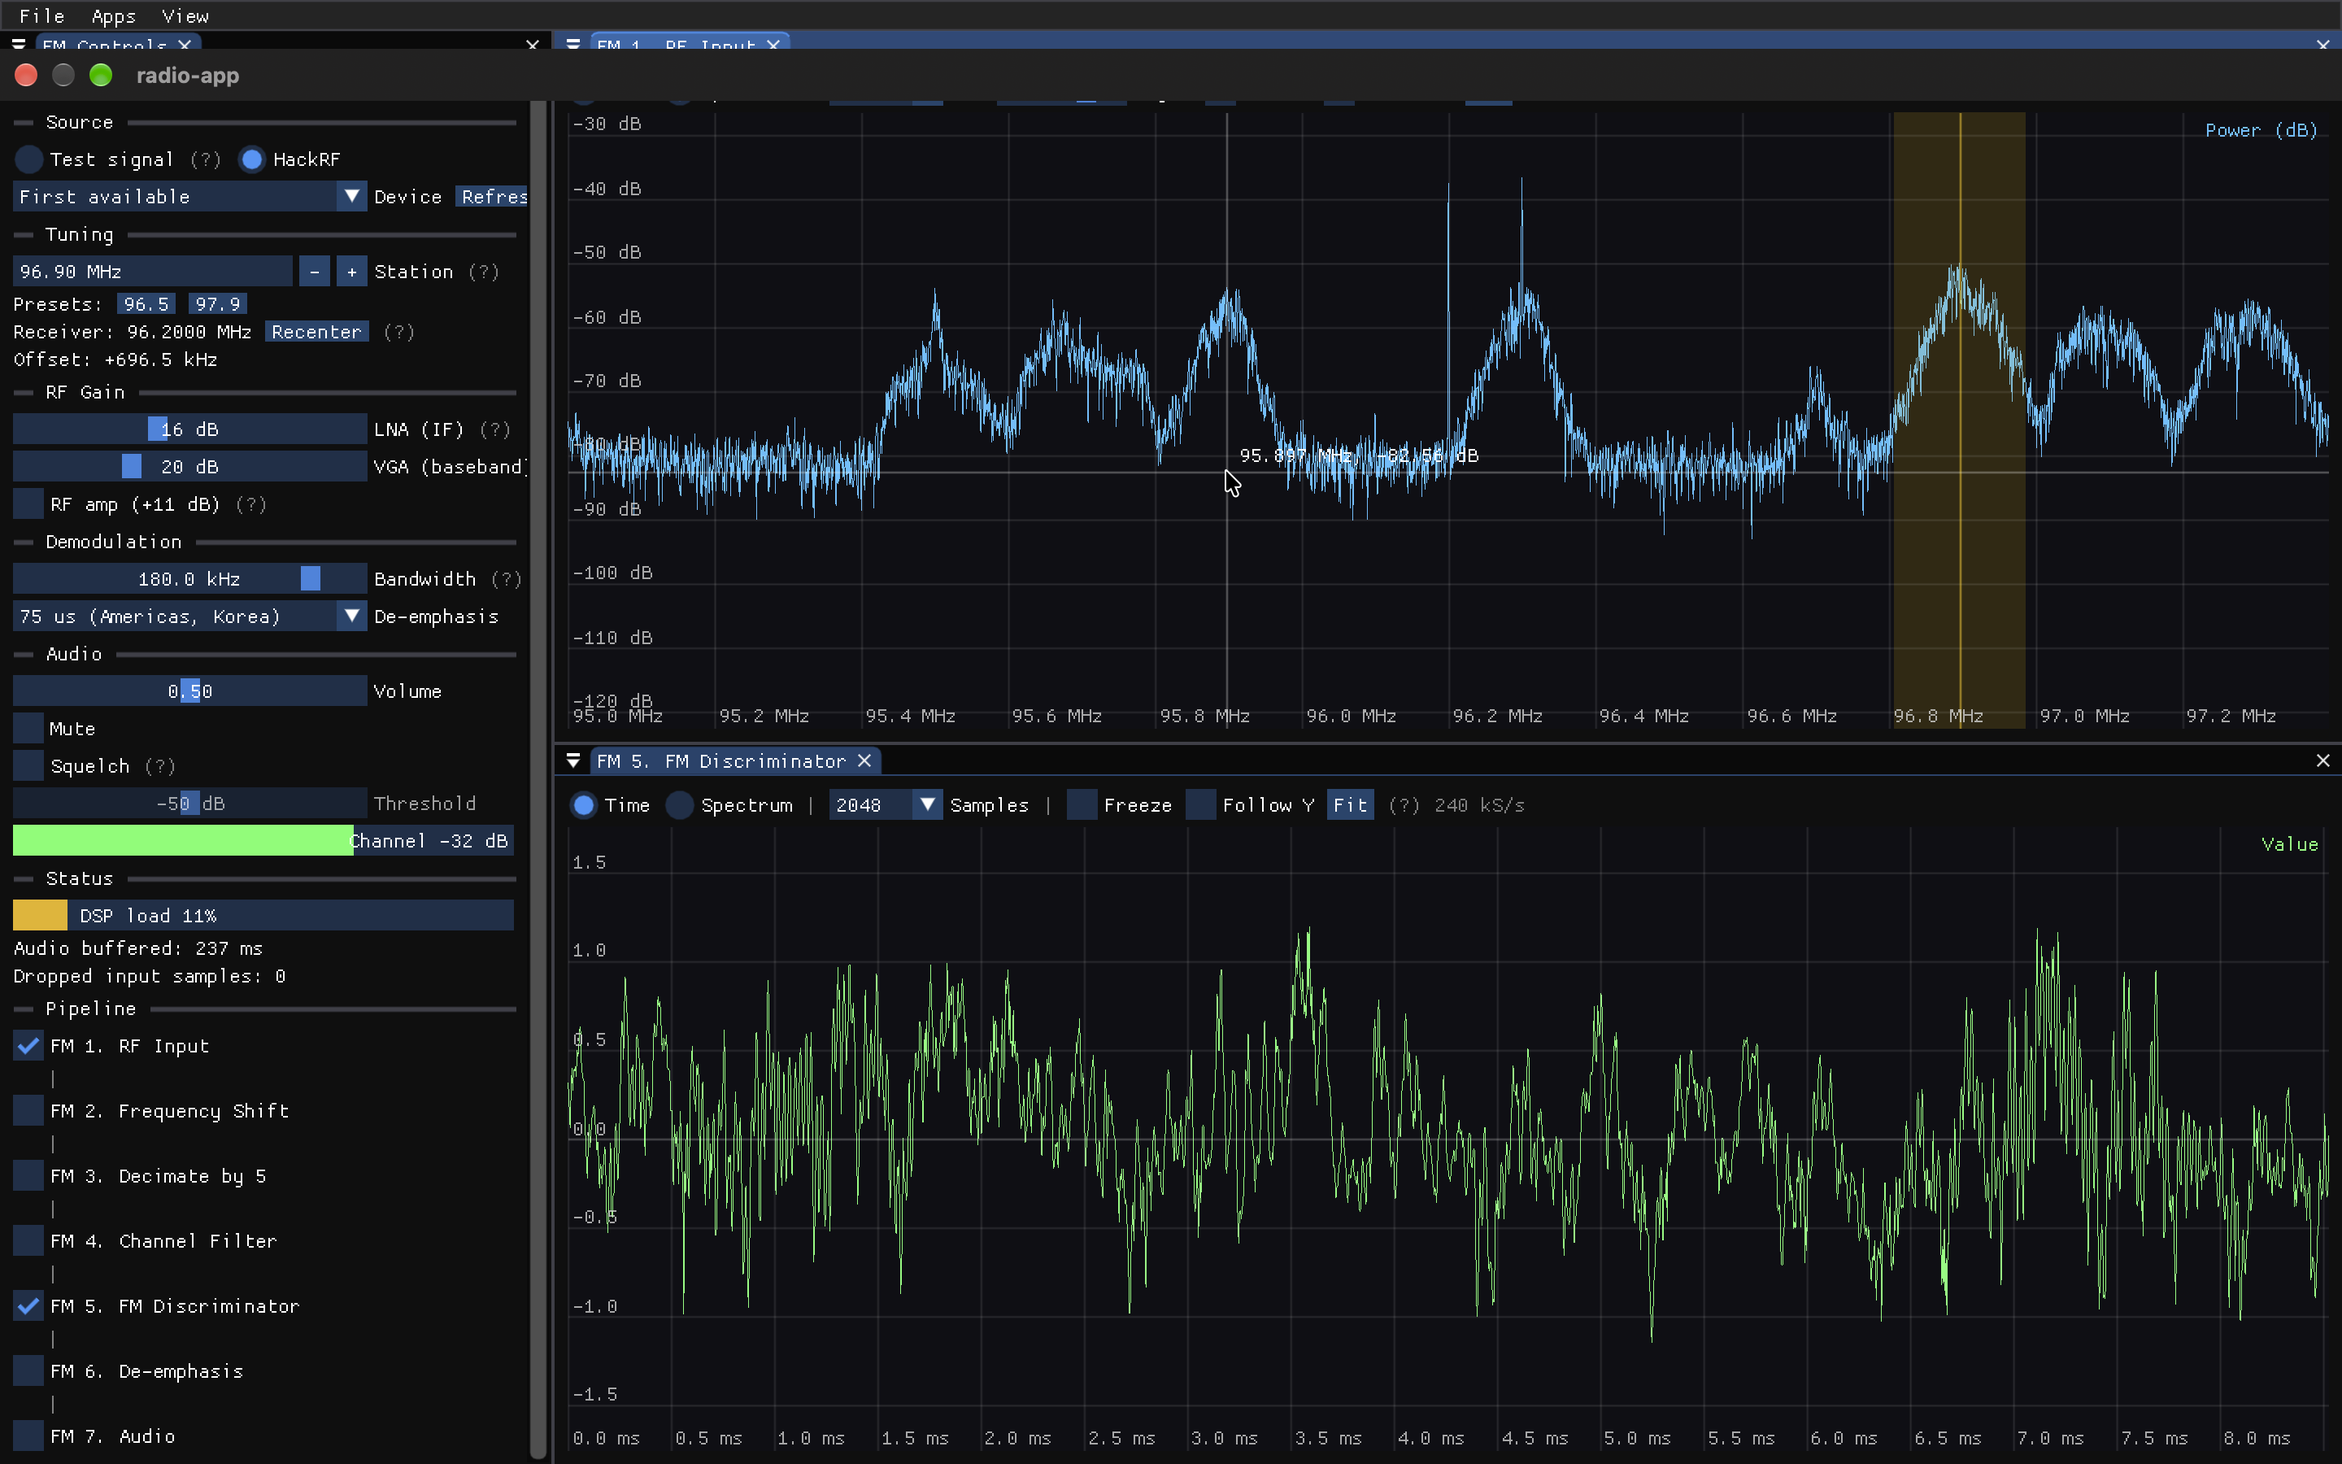
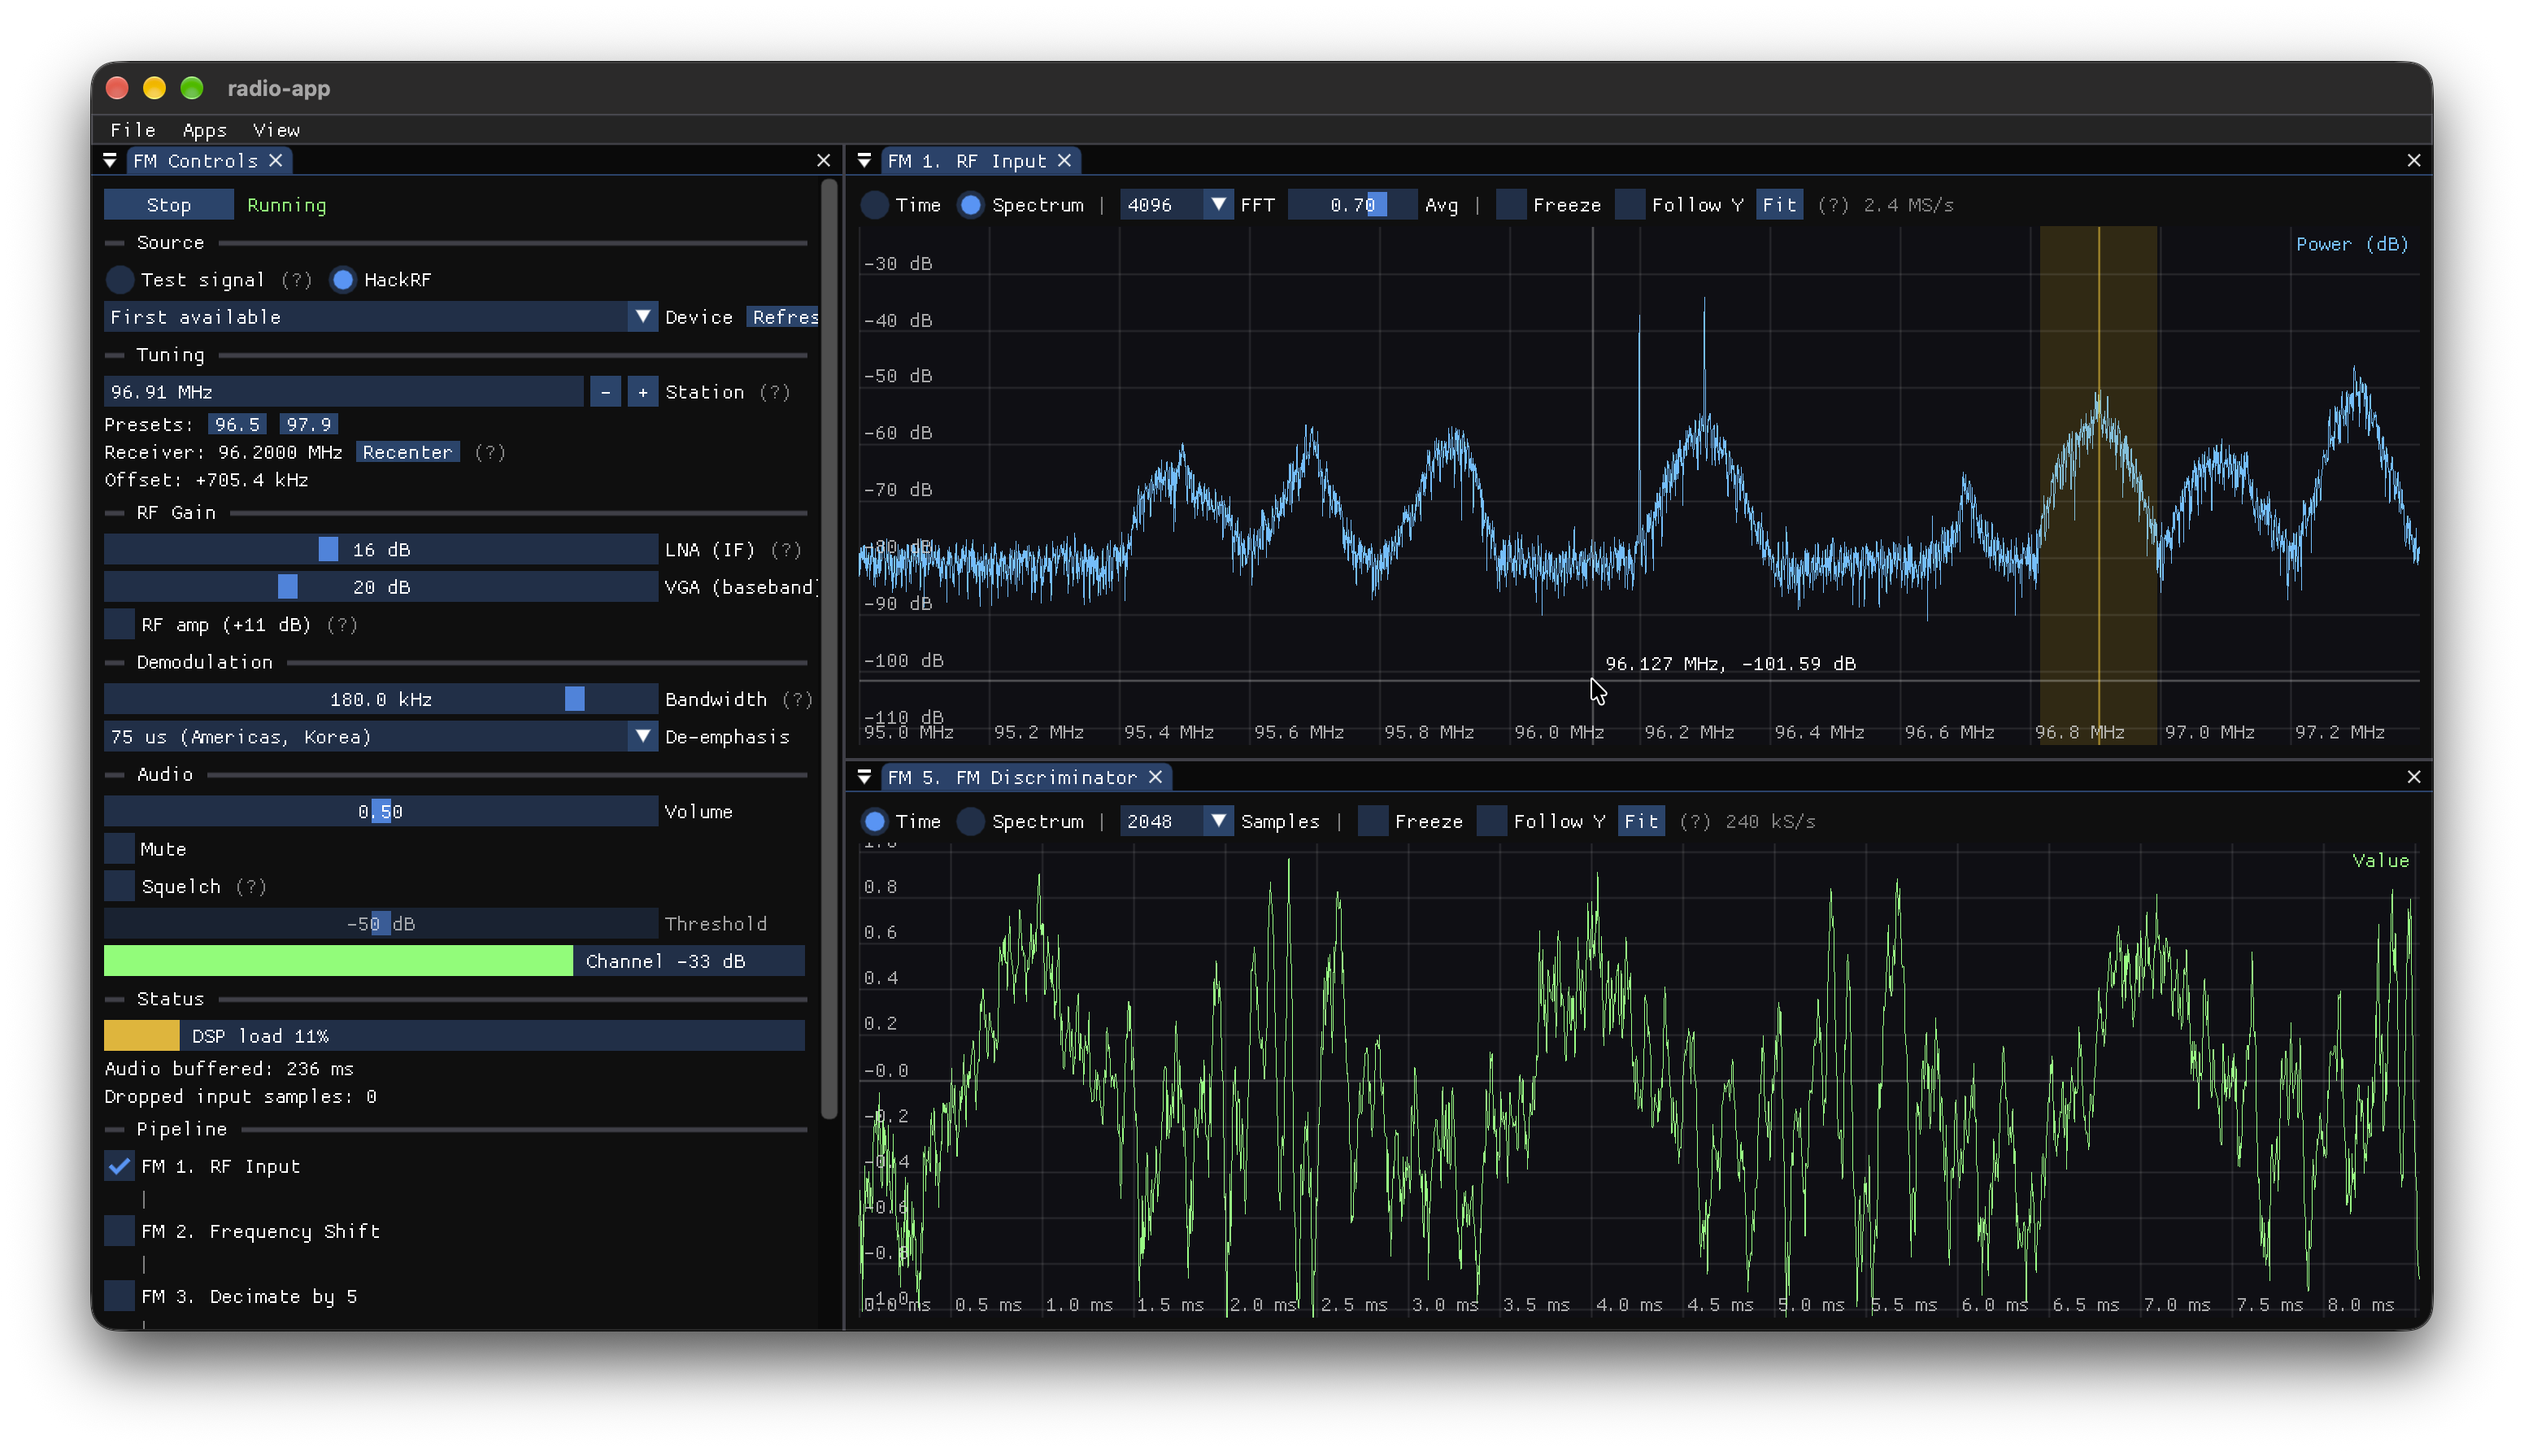
Push ltb-vlk changes and update README

diff --git a/README.md b/README.md
@@ -96,20 +96,54 @@ Requirements:
   - macOS: `brew install pkg-config libusb`
   - Ubuntu: `sudo apt install pkg-config libusb-1.0-0-dev`
 
-Other dependencies (ImGui, GLFW, libhackrf, miniaudio, GoogleTest, ...) are fetched by
-[CPM](https://github.com/cpm-cmake/CPM.cmake).
+Other dependencies (ImGui, GLFW, libhackrf, miniaudio, GoogleTest, and
+[ltb-vlk](https://github.com/LoganBarnes/ltb-vlk)) are downloaded by
+[CPM](https://github.com/cpm-cmake/CPM.cmake) when CMake configures.
+
+### Build and run
+
+No submodules needed. CMake downloads ltb-vlk at the commit the `ltb-vlk` submodule pins, so
+clone with git (not a zip download) so that commit can be looked up.
 
 ```sh
-git clone --recurse-submodules https://github.com/LoganBarnes/ltb-radio.git
-cmake -S ltb-radio -B build -DLTB_RADIO_BUILD_TESTS=ON
-cmake --build build --config Release
+git clone https://github.com/LoganBarnes/ltb-radio.git
+cmake -S ltb-radio -B ltb-radio/build -DCMAKE_BUILD_TYPE=Release
+cmake --build ltb-radio/build --config Release --target radio-app
+./ltb-radio/build/src/ltb/apps/radio-app
+```
 
-./build/src/ltb/apps/Release/radio-app   # path varies by generator
-ctest --test-dir build -C Release        # unit tests
+The app path includes the configuration (e.g. `apps/Release/radio-app`) with multi-config
+generators such as Ninja Multi-Config or Xcode.
+
+### Development
+
+Turn on the tests and strict warnings (every warning is an error):
+
+```sh
+cmake -S . -B build -G "Ninja Multi-Config" \
+  -DLTB_RADIO_BUILD_TESTS=ON \
+  -DLTB_RADIO_USE_STRICT_FLAGS=ON
+cmake --build build --config Debug
+ctest --test-dir build -C Debug
 ```
 
 Signal processing is compiled with optimizations even in Debug builds so it keeps up with
-real time.
+real time. Setting `CPM_SOURCE_CACHE` (e.g. `~/.cache/CPM`) shares downloads between build
+directories.
+
+#### Editing ltb-vlk
+
+Only needed when changing [ltb-vlk](https://github.com/LoganBarnes/ltb-vlk) itself. Check out the
+submodule and point CPM at it instead of the downloaded copy:
+
+```sh
+git submodule update --init
+cmake -S . -B build -DCPM_LtbVlk_SOURCE=$PWD/ltb-vlk
+```
+
+Everyone else builds the commit the submodule pins, downloaded from GitHub. So push ltb-vlk
+changes before committing the updated submodule in this repo, or other builds will fail to find
+that commit.
 
 ## Links
 
